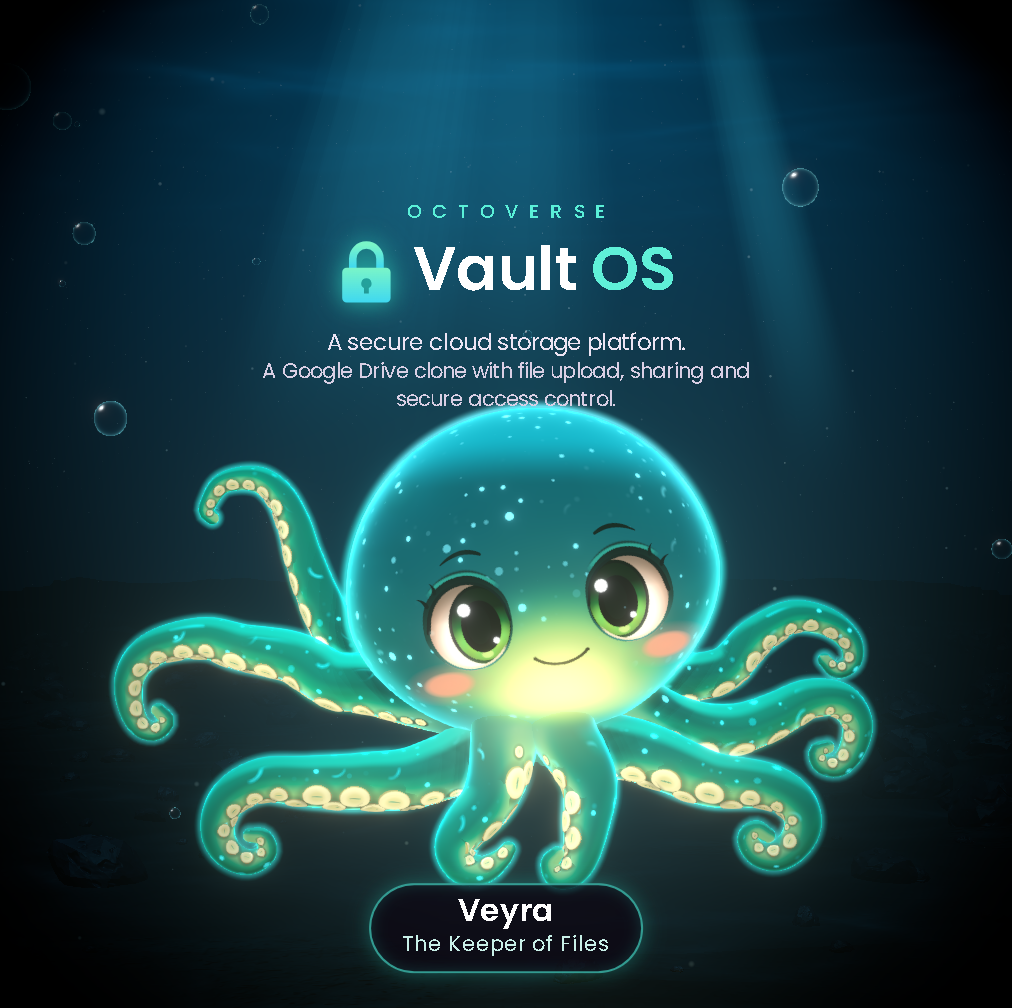
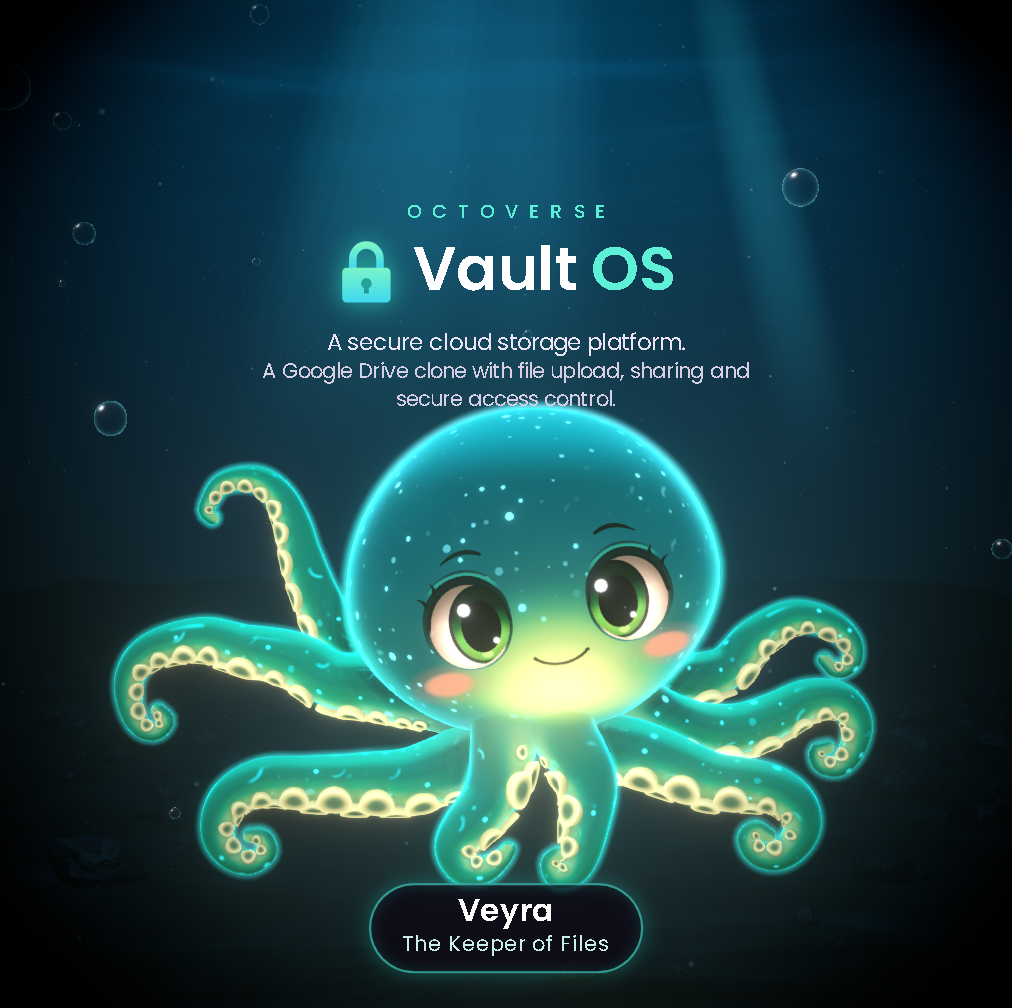
fix(engine): jelly core follows the head frame; crown band stays soft
The jelly's warm core was the face glow position plus an offset in world
axes, so a turned or scaled head moved it off the head (at yaw 180 the
"behind the face" core sat in front of it). Each jelly surface now has a
uJellyCorePos written every frame as (glow.center + coreCenter) through the
head's world matrix (jellyCoreWorld, preallocated, tested with a turned,
scaled, moved head). The crown fades in over a fixed soft width above
crownHeight, now held at 0.9 at most. The face glow's spread and reach are
clamped above zero and validateBundle names one that is not. The no-colour
check covers the sparkle code too. Material creation order is unchanged, so
Nox's draw order and stills stay bit-identical.

diff --git a/src/engine/character/skinMaterial.test.ts b/src/engine/character/skinMaterial.test.ts
@@ -5,7 +5,7 @@ import * as THREE from 'three';
 import { expect, test } from 'vitest';
 import { NOX } from '../../worlds/nox/character';
 import type { CharacterConfig, JellySettings, SurfaceLook } from '../config/types';
-import { createSkinMaterial, createSkinUniforms, faceWeight, surfaceLooks } from './skinMaterial';
+import { createSkinMaterial, createSkinUniforms, faceWeight, jellyCoreLocal, jellyCoreWorld, surfaceLooks } from './skinMaterial';
 import { ACCENT_GLSL, createAccentUniforms } from './worldAccent';
 
 // Nox's skin program before the jelly mode existed (taken from the sources at fcfedba, before the
@@ -22,7 +22,15 @@ const withSurfaces = (mantle: SurfaceLook, arms: SurfaceLook): CharacterConfig =
 const materials = (config: CharacterConfig) => {
   const u = createSkinUniforms(config);
   const looks = surfaceLooks(config.skin);
-  return { head: createSkinMaterial('HEAD', u, config.palette.rimHot, undefined, looks.mantle), arm: createSkinMaterial('ARM', u, config.palette.rimHot, undefined, looks.arms) };
+  return {
+    head: createSkinMaterial('HEAD', u, config.palette.rimHot, undefined, looks.mantle, config.glow.center),
+    arm: createSkinMaterial('ARM', u, config.palette.rimHot, undefined, looks.arms, config.glow.center),
+  };
+};
+/** The `#ifdef name` block of a shader source, up to its `#endif`. */
+const branchOf = (source: string, name: string) => {
+  const start = source.indexOf(`#ifdef ${name}`);
+  return source.slice(start, source.indexOf('#endif', start));
 };
 
 test("Nox's skin program is the text it was before the jelly mode: mantle and arms, absent surfaces or plain skin", () => {
@@ -50,14 +58,51 @@ test('a jelly surface compiles the JELLY branch, its colours and shape read from
   expect(u.uJellyDepth.value).toEqual(new THREE.Color(JELLY.depth));
   expect(u.uJellyCore.value).toEqual(new THREE.Color(JELLY.core));
   expect(u.uJellyShape.value.toArray()).toEqual([JELLY.rimPower, JELLY.crownHeight, JELLY.depthStrength, JELLY.coreWarmth]);
-  expect(u.uJellyCoreCenter.value.toArray()).toEqual([...JELLY.coreCenter]);
-  // The jelly takes no colour of its own: the only vec3 constants it holds are the luminance weights.
-  const source = head.fragmentShader;
-  const start = source.indexOf('#ifdef JELLY');
-  const branch = source.slice(start, source.indexOf('#endif', start));
-  expect(branch).toContain('vec3 jellyLook(');
-  expect(branch.match(/vec3\([^)]*\)/g) ?? []).toEqual([]);
-  expect(branch).not.toMatch(/#[0-9a-fA-F]{6}/);
+  // The core starts at its head-space point, the face glow's centre plus the surface's offset.
+  const [gx, gy, gz] = NOX.glow.center;
+  const [cx, cy, cz] = JELLY.coreCenter;
+  expect(u.uJellyCorePos.value.toArray()).toEqual([gx + cx, gy + cy, gz + cz]);
+});
+
+test('neither the jelly nor the sparkle code holds a colour of its own: no vec3 constant, no hex', () => {
+  const source = materials(withSurfaces(jelly(80), jelly(40))).head.fragmentShader;
+  const branches = { JELLY: branchOf(source, 'JELLY'), SPARKLE: branchOf(source, 'SPARKLE') };
+  expect(branches.JELLY).toContain('vec3 jellyLook(');
+  expect(branches.SPARKLE).toContain('float sparkles(');
+  for (const [name, branch] of Object.entries(branches)) {
+    expect(branch.match(/vec[34]\([^)]*\)/g) ?? [], name).toEqual([]);
+    expect(branch, name).not.toMatch(/#[0-9a-fA-F]{6}/);
+  }
+  // The sparkles' colour is the palette's wet colour, a uniform.
+  expect(source).toContain('col += uWetColor * sparkles(p, footprint, up)');
+});
+
+test('the warm core follows the head frame: its world place is the head-space point through the head matrix, rotated and scaled', () => {
+  const local = jellyCoreLocal([0.3, -0.88, 0.6], [0, 0.12, -0.35]);
+  expect(local.toArray().map(v => +v.toFixed(6))).toEqual([0.3, -0.76, 0.25]);
+  // A head turned half round (as at yaw 180), scaled 1.5 and moved.
+  const head = new THREE.Matrix4().compose(new THREE.Vector3(1, 2, -3), new THREE.Quaternion().setFromAxisAngle(new THREE.Vector3(0, 1, 0), Math.PI), new THREE.Vector3(1.5, 1.5, 1.5));
+  const out = new THREE.Vector3();
+  const same = jellyCoreWorld(out, local, head);
+  expect(same).toBe(out);
+  const expected = [1 - 0.3 * 1.5, 2 - 0.76 * 1.5, -3 - 0.25 * 1.5];
+  out.toArray().forEach((v, i) => expect(v).toBeCloseTo(expected[i], 6));
+  // Behind the face stays behind the face: turned half round, the face looks down -z, and the core
+  // (0.35 behind it in head space) lies on the head's inner side of it, toward +z, not in front of it.
+  const glow = new THREE.Vector3(0.3, -0.88, 0.6).applyMatrix4(head);
+  expect(out.z).toBeGreaterThan(glow.z);
+  // A small head turn moves the core with the head, not by a fixed world offset.
+  const turned = new THREE.Matrix4().makeRotationY(THREE.MathUtils.degToRad(20));
+  jellyCoreWorld(out, local, turned);
+  expect(out.distanceTo(local.clone().applyMatrix4(turned))).toBe(0);
+  expect(local.toArray().map(v => +v.toFixed(6))).toEqual([0.3, -0.76, 0.25]);
+});
+
+test("Octopus writes each jelly core through the head's world matrix every frame, into the preallocated uniform", () => {
+  const source = readFileSync(resolve(__dirname, 'Octopus.tsx'), 'utf8');
+  expect(source).toContain('jellyCoreWorld(rig.jellyCores[k].pos, rig.jellyCores[k].local, headSpace.current!.matrixWorld)');
+  // After the head's world matrix is brought up to date, beside the face glow.
+  expect(source.indexOf('jellyCoreWorld(rig.jellyCores')).toBeGreaterThan(source.indexOf('headSpace.current!.updateWorldMatrix(true, false);'));
 });
 
 test('the jelly allocates no render target: one pass, no transmission, only the textures the skin already reads', () => {
@@ -86,7 +131,9 @@ test('changing the jelly core colour or its centre changes only uniform values, 
   expect(b.vertexShader).toBe(a.vertexShader);
   expect(b.defines).toEqual(a.defines);
   expect(b.uniforms.uJellyCore.value).not.toEqual(a.uniforms.uJellyCore.value);
-  expect(b.uniforms.uJellyCoreCenter.value.toArray()).toEqual([0.2, -0.1, 0.4]);
+  const [gx, gy, gz] = NOX.glow.center;
+  b.uniforms.uJellyCorePos.value.toArray().forEach((v: number, i: number) => expect(v).toBeCloseTo([gx + 0.2, gy - 0.1, gz + 0.4][i], 9));
+  expect(b.uniforms.uJellyCorePos.value).not.toEqual(a.uniforms.uJellyCorePos.value);
 });
 
 test('sparkles: a define only where a surface has them, at the configured density, under one shared shimmer wave', () => {

diff --git a/src/engine/character/skinMaterial.ts b/src/engine/character/skinMaterial.ts
@@ -162,6 +162,8 @@ const skinVertex = /* glsl */ `
 export const SPARKLE_RADIUS = 0.012;
 /** Each speck fades in and out over this many seconds, its own pace and phase. */
 const TWINKLE_SECONDS = [2, 6] as const;
+/** The jelly crown's soft lower edge: the normal's up component over which the cap fades in above `crownHeight`. */
+const CROWN_SOFTNESS = 0.4;
 
 /**
  * The jelly glass and the sparkles (spec 7.2), spliced into the skin's fragment shader only for a
@@ -178,8 +180,8 @@ const LOOK_GLSL = /* glsl */ `
     uniform vec3 uJellyCore;
     // rimPower, crownHeight (the normal's up component), depthStrength, coreWarmth.
     uniform vec4 uJellyShape;
-    // The warm core's centre, from the face glow's.
-    uniform vec3 uJellyCoreCenter;
+    // The warm core's centre in world space, written each frame through the head's frame (jellyCoreWorld).
+    uniform vec3 uJellyCorePos;
 
     // Jelly glass in one pass, over the skin's own shading: the face glow and its spill stay as the
     // skin drew them, the rest takes the jelly's thick middle, its lighter crown, the warm core seen
@@ -188,11 +190,12 @@ const LOOK_GLSL = /* glsl */ `
       float clear = 1.0 - smoothstep(0.2, 0.65, faceGlow);
       // Depth: the surface facing the viewer looks through the most jelly, darker and denser.
       col = mix(col, uJellyDepth, ndv * uJellyShape.z * clear);
-      // Crown: a soft lighter cap toward the top.
-      float cap = smoothstep(uJellyShape.y, min(uJellyShape.y + 0.3, 1.0), N.y);
+      // Crown: a soft lighter cap toward the top, always the same soft width (a high crownHeight
+      // gives a smaller, fainter cap, never a hard edge).
+      float cap = smoothstep(uJellyShape.y, uJellyShape.y + ${glsl(CROWN_SOFTNESS)}, N.y);
       col = mix(col, uJellyCrown, cap * clear);
       // Warm core: brightest where the view through the jelly passes nearest it.
-      vec3 toCore = uGlowPos + uJellyCoreCenter - cameraPosition;
+      vec3 toCore = uJellyCorePos - cameraPosition;
       vec3 ray = -V;
       vec3 miss = toCore - ray * max(dot(toCore, ray), 0.0);
       float core = exp(-dot(miss, miss) / (uGlowShape.x * uGlowShape.x)) * uGlowStrength * uJellyShape.w;
@@ -631,15 +634,38 @@ export function surfaceLooks(skin: SkinDetail): { mantle: SurfaceLook; arms: Sur
   return skin.surfaces ?? { mantle: PLAIN_SKIN, arms: PLAIN_SKIN };
 }
 
-/** One surface's jelly settings as uniforms: every colour and the core's place are values, never shader text. */
-function jellyUniforms(jelly: JellySettings) {
+type Triple = readonly [number, number, number];
+
+/**
+ * Where a jelly surface's warm core sits in the head's own space (the frame `glow.center` is given
+ * in): the face glow's centre plus the surface's `coreCenter`.
+ */
+export function jellyCoreLocal(glowCenter: Triple, coreCenter: Triple): THREE.Vector3 {
+  return new THREE.Vector3(glowCenter[0] + coreCenter[0], glowCenter[1] + coreCenter[1], glowCenter[2] + coreCenter[2]);
+}
+
+/**
+ * The warm core in world space, written into `out` (the surface's `uJellyCorePos`, preallocated):
+ * the head-space point `local` carried through the head's world matrix, so the core turns, tilts and
+ * scales with the head, as the face glow does. Allocates nothing; Octopus calls it each frame.
+ */
+export function jellyCoreWorld(out: THREE.Vector3, local: THREE.Vector3, headMatrixWorld: THREE.Matrix4): THREE.Vector3 {
+  return out.copy(local).applyMatrix4(headMatrixWorld);
+}
+
+/**
+ * One surface's jelly settings as uniforms: every colour and the core's place are values, never
+ * shader text. The core starts at its head-space point (`glowCenter` + `coreCenter`), which is its
+ * world place for a head at the origin, until the first frame carries it through the head's frame.
+ */
+function jellyUniforms(jelly: JellySettings, glowCenter: Triple) {
   return {
     uJellyRim: { value: new THREE.Color(jelly.rim) },
     uJellyCrown: { value: new THREE.Color(jelly.crown) },
     uJellyDepth: { value: new THREE.Color(jelly.depth) },
     uJellyCore: { value: new THREE.Color(jelly.core) },
     uJellyShape: { value: new THREE.Vector4(jelly.rimPower, jelly.crownHeight, jelly.depthStrength, jelly.coreWarmth) },
-    uJellyCoreCenter: { value: new THREE.Vector3(...jelly.coreCenter) },
+    uJellyCorePos: { value: jellyCoreLocal(glowCenter, jelly.coreCenter) },
   };
 }
 
@@ -648,8 +674,9 @@ function jellyUniforms(jelly: JellySettings) {
  * `rimHot` (the character's `palette.rimHot`), drawn in its surface's `look` (the mantle's for the
  * head, the arms' for the arms and webs): a jelly or sparkling surface compiles that code behind its
  * define, with its own uniforms; plain skin compiles exactly the skin program it always did.
+ * `glowCenter` is the character's `glow.center` (head space), where a jelly core is placed from.
  */
-export function createSkinMaterial(kind: SkinKind, uniforms: SkinUniforms, rimHot: string, face?: { texture: THREE.Texture; rect: THREE.Vector4 }, look: SurfaceLook = PLAIN_SKIN) {
+export function createSkinMaterial(kind: SkinKind, uniforms: SkinUniforms, rimHot: string, face?: { texture: THREE.Texture; rect: THREE.Vector4 }, look: SurfaceLook = PLAIN_SKIN, glowCenter: Triple = [0, 0, 0]) {
   const jelly = look.mode === 'jelly';
   const sparkle = look.sparkle > 0;
   if (jelly && !look.jelly) throw new Error('A jelly skin surface needs its jelly settings (clampCharacterConfig fills them in)');
@@ -659,7 +686,7 @@ export function createSkinMaterial(kind: SkinKind, uniforms: SkinUniforms, rimHo
       ...uniforms,
       uFace: { value: face?.texture ?? null },
       uFaceRect: { value: face?.rect ?? new THREE.Vector4(0, 0, 1, 1) },
-      ...(jelly ? jellyUniforms(look.jelly!) : {}),
+      ...(jelly ? jellyUniforms(look.jelly!, glowCenter) : {}),
       ...(sparkle ? { uSparkle: { value: look.sparkle } } : {}),
     },
     vertexShader: skinVertex,

diff --git a/src/engine/character/Octopus.tsx b/src/engine/character/Octopus.tsx
@@ -38,7 +38,7 @@ import { createHaloMaterial } from './haloMaterial';
 import { createDomeGeometry, createHeadGeometry } from './headGeometry';
 import { createHeadSilhouetteMaterial } from './headMorph';
 import { HEAD_EFFECTS } from './headEffects';
-import { createSkinMaterial, createSkinUniforms, surfaceLooks } from './skinMaterial';
+import { createSkinMaterial, createSkinUniforms, jellyCoreWorld, surfaceLooks } from './skinMaterial';
 import { createDomeMaterial } from './domeMaterial';
 import { LocalGrade } from './LocalGrade';
 import { createCupArmAttribute, createCupShadowMaterial, createSuckerMaterial } from './suckerMaterial';
@@ -224,7 +224,8 @@ export function Octopus({ config, swimPoses, introPose, artifacts, blender, stag
     });
     // The mantle and the arms each take their own surface's look; the webs are arm surface.
     const looks = surfaceLooks(config.skin);
-    const webMaterial = createSkinMaterial('ARM', uniforms, config.palette.rimHot, undefined, looks.arms);
+    const glowCenter = config.glow.center;
+    const webMaterial = createSkinMaterial('ARM', uniforms, config.palette.rimHot, undefined, looks.arms, glowCenter);
     webMaterial.side = THREE.DoubleSide;
     // The cups and their contact shadows share one set of placements and bends.
     const suckerTotal = arms.reduce((n, a) => n + a.row.count, 0);
@@ -242,7 +243,8 @@ export function Octopus({ config, swimPoses, introPose, artifacts, blender, stag
     const cupShadows = new THREE.InstancedMesh(shadowGeometry, createCupShadowMaterial(config.palette, config.suckers, uniforms), suckerTotal);
     cupShadows.instanceMatrix = suckers.instanceMatrix;
     cupShadows.frustumCulled = false;
-    return {
+    // The materials are made in the order they always were (the renderer sorts opaques by material id, so a new order would redraw Nox differently).
+    const built = {
       uniforms,
       face,
       arms,
@@ -257,8 +259,8 @@ export function Octopus({ config, swimPoses, introPose, artifacts, blender, stag
       suckers,
       cupShadows,
       suckerBend,
-      headMaterial: createSkinMaterial('HEAD', uniforms, config.palette.rimHot, { texture: face.texture, rect: FACE_RECT }, looks.mantle),
-      armMaterial: createSkinMaterial('ARM', uniforms, config.palette.rimHot, undefined, looks.arms),
+      headMaterial: createSkinMaterial('HEAD', uniforms, config.palette.rimHot, { texture: face.texture, rect: FACE_RECT }, looks.mantle, glowCenter),
+      armMaterial: createSkinMaterial('ARM', uniforms, config.palette.rimHot, undefined, looks.arms, glowCenter),
       coreGlow: createGlowMaterial(config.glow.core, CORE_GLOW, 2.4),
       armHalo: createHaloMaterial(config.glow.halo, 'ARM'),
       headHalo: createHaloMaterial(config.glow.halo, 'HEAD', new THREE.Vector3(config.head.centerX - config.head.faceOrigin[0], config.head.waist - config.head.faceOrigin[1], 0), uniforms.uMorph),
@@ -269,6 +271,14 @@ export function Octopus({ config, swimPoses, introPose, artifacts, blender, stag
       // What this rig's materials last showed of the entrance's haze and veil (written only on a change).
       shown: { hazeZ: 0, veil: 0 },
     };
+    // Each jelly surface's warm core: its head-space point, and the world-space uniform it is carried into each frame (none for Nox).
+    const jellyCores = [built.headMaterial, built.armMaterial, webMaterial]
+      .filter(material => 'uJellyCorePos' in material.uniforms)
+      .map(material => {
+        const pos = material.uniforms.uJellyCorePos.value as THREE.Vector3;
+        return { pos, local: pos.clone() };
+      });
+    return { ...built, jellyCores };
     // Built once per character and quality tier; stage poses reach the arms as new rests each frame.
   }, [config, blender, quality, accents]);
 
@@ -761,6 +771,8 @@ export function Octopus({ config, swimPoses, introPose, artifacts, blender, stag
     headSpace.current!.updateWorldMatrix(true, false);
     m.glow.copy(rig.glowLocal).applyMatrix4(headSpace.current!.matrixWorld);
     rig.uniforms.uGlowPos.value.copy(m.glow);
+    // A jelly surface's warm core rides the same head frame as the face glow: turned, tilted and scaled with it.
+    for (let k = 0; k < rig.jellyCores.length; k++) jellyCoreWorld(rig.jellyCores[k].pos, rig.jellyCores[k].local, headSpace.current!.matrixWorld);
     accents?.at.copy(m.glow);
     if (world && glowLight) {
       // Placed in world space, where the particles read it, then into the float group's (its matrix was just brought up to date).

diff --git a/src/engine/config/validate.test.ts b/src/engine/config/validate.test.ts
@@ -3,7 +3,7 @@ import { NOX_BUNDLE } from '../../worlds/nox/bundle';
 import { NOX } from '../../worlds/nox/character';
 import { BundleError, validateBundle } from '../types/bundle';
 import type { JellySettings, SuckerStyle } from './types';
-import { clampCharacterConfig } from './validate';
+import { GLOW_SPREAD_MIN, clampCharacterConfig } from './validate';
 
 test('NOX is unchanged by clamping', () => {
   expect(clampCharacterConfig(NOX)).toEqual(NOX);
@@ -116,6 +116,9 @@ const clampedNumbers = (bad: unknown) => ({
     ...NOX.glow,
     light: poison(NOX.glow.light, bad),
     underside: bad as number,
+    spreadX: bad as number,
+    reachUp: bad as number,
+    reachDown: bad as number,
     aura: poison(NOX.glow.aura, bad),
     grade: poison(NOX.glow.grade, bad),
   },
@@ -221,6 +224,38 @@ test('jelly settings are clamped, and a missing or unreadable colour reads the c
   expect([fallback.rim, fallback.crown, fallback.depth, fallback.core]).toEqual([NOX.palette.rimTop, NOX.palette.headEdge, NOX.palette.blotch, NOX.glow.core]);
   // A skin surface carries no jelly.
   expect(surfaces({ mode: 'skin', jelly: JELLY, sparkle: 0 }, { mode: 'skin', sparkle: 0 }).mantle).toEqual({ mode: 'skin', sparkle: 0 });
+});
+
+test('the jelly crown starts at 0.9 at the most, so its soft edge always fits below the top', () => {
+  const crown = (crownHeight: number) => surfaces({ mode: 'jelly', jelly: { ...JELLY, crownHeight }, sparkle: 0 }, { mode: 'skin', sparkle: 0 }).mantle.jelly!.crownHeight;
+  expect(crown(1)).toBe(0.9);
+  expect(crown(0.95)).toBe(0.9);
+  expect(crown(0.6)).toBe(0.6);
+});
+
+test('the face glow spread and reach stay above zero (the shaders divide by them); Nox keeps his', () => {
+  const g = clampCharacterConfig({ ...NOX, glow: { ...NOX.glow, spreadX: 0, reachUp: -1, reachDown: 99 } }).glow;
+  expect([g.spreadX, g.reachUp, g.reachDown]).toEqual([GLOW_SPREAD_MIN, GLOW_SPREAD_MIN, 4]);
+  expect(GLOW_SPREAD_MIN).toBeGreaterThan(0);
+  const nox = clampCharacterConfig(NOX).glow;
+  expect([nox.spreadX, nox.reachUp, nox.reachDown]).toEqual([NOX.glow.spreadX, NOX.glow.reachUp, NOX.glow.reachDown]);
+});
+
+test('validateBundle names a face glow spread or reach that is not above zero', () => {
+  const withGlow = (change: Record<string, number>) => ({ ...NOX_BUNDLE, character: { ...NOX_BUNDLE.character, glow: { ...NOX_BUNDLE.character.glow, ...change } } });
+  const field = (bundle: typeof NOX_BUNDLE) => {
+    try {
+      validateBundle(bundle);
+    } catch (error) {
+      if (error instanceof BundleError) return error.field;
+      throw error;
+    }
+    return null;
+  };
+  expect(field(withGlow({ spreadX: 0 }))).toBe('character.glow.spreadX');
+  expect(field(withGlow({ reachUp: -0.2 }))).toBe('character.glow.reachUp');
+  expect(field(withGlow({ reachDown: 0 }))).toBe('character.glow.reachDown');
+  expect(field(withGlow({ spreadX: 0.3 }))).toBeNull();
 });
 
 test('validateBundle names a surface mode the engine has not got, and a jelly colour that does not parse', () => {

diff --git a/src/engine/config/validate.ts b/src/engine/config/validate.ts
@@ -46,6 +46,8 @@ const LEGACY = {
  */
 const DEFAULTS = {
   underside: 1.6,
+  // The face glow's spread and reach: the shaders divide by them, so they stay above zero.
+  glowSpread: { spreadX: 0.58, reachUp: 0.45, reachDown: 0.2 },
   auraRadius: 3.6,
   auraStrength: 1,
   gradeRadius: 4,
@@ -81,6 +83,9 @@ function clampLighting(l: StageLighting, d: StageLighting = INTRO_LIGHTING): Sta
   };
 }
 
+/** The least the face glow's spread and reach may be: the skin and jelly shaders divide by their squares. */
+export const GLOW_SPREAD_MIN = 0.02;
+
 /** Sparkle specks per square unit of surface: none to a dense frost. */
 const SPARKLE_MAX = 400;
 
@@ -103,7 +108,8 @@ function clampSurface(look: Partial<SurfaceLook> | undefined, palette: Palette, 
     rim: colour(j.rim, palette.rimTop),
     rimPower: clamp(j.rimPower as number, 0.5, 8, JELLY_DEFAULTS.rimPower),
     crown: colour(j.crown, palette.headEdge),
-    crownHeight: unit(j.crownHeight as number, JELLY_DEFAULTS.crownHeight),
+    // Below 0.9, so the cap always has room to fade in over its soft edge before the top.
+    crownHeight: clamp(j.crownHeight as number, 0, 0.9, JELLY_DEFAULTS.crownHeight),
     depth: colour(j.depth, palette.blotch),
     depthStrength: unit(j.depthStrength as number, JELLY_DEFAULTS.depthStrength),
     core: colour(j.core, core),
@@ -191,6 +197,9 @@ export function clampCharacterConfig(config: LegacyCharacterConfig): CharacterCo
         decay: clamp(light.decay, 0.5, 4, LEGACY.light.decay),
       },
       underside: clamp(config.glow.underside, 0, 2, DEFAULTS.underside),
+      spreadX: clamp(config.glow.spreadX, GLOW_SPREAD_MIN, 4, DEFAULTS.glowSpread.spreadX),
+      reachUp: clamp(config.glow.reachUp, GLOW_SPREAD_MIN, 4, DEFAULTS.glowSpread.reachUp),
+      reachDown: clamp(config.glow.reachDown, GLOW_SPREAD_MIN, 4, DEFAULTS.glowSpread.reachDown),
       aura: { ...aura, belowStart: clamp(aura.belowStart ?? LEGACY.belowStart, 0.05, 4, LEGACY.belowStart), radius: clamp(aura.radius, 0.2, 4, DEFAULTS.auraRadius), strength: unit(aura.strength, DEFAULTS.auraStrength) },
       grade: { ...grade, radius: clamp(grade.radius, 0.5, 8, DEFAULTS.gradeRadius), strength: unit(grade.strength, DEFAULTS.gradeStrength) },
     },

diff --git a/src/engine/types/bundle.ts b/src/engine/types/bundle.ts
@@ -212,6 +212,11 @@ export function validateBundle(bundle: WorldBundle, worlds: readonly WorldId[] =
     if (surfaces && !(SKIN_MODES as readonly unknown[]).includes(mode)) throw new BundleError(`character.skin.surfaces.${surface}.mode`, `"${String(mode)}" is not a skin mode the engine has (${SKIN_MODES.join(', ')})`);
   }
   checkLeaves(rest.character, 'character', true);
+  // The face glow's spread and reach divide in the skin and jelly shaders: each must be above zero.
+  for (const key of ['spreadX', 'reachUp', 'reachDown'] as const) {
+    const value: unknown = bundle.character.glow?.[key];
+    if (!(finite(value) && value > 0)) throw new BundleError(`character.glow.${key}`, `${String(value)} is not above 0 (the face glow divides by it)`);
+  }
   checkLeaves(rest.place, 'place', true);
   checkLeaves(rest.poses, 'poses', false);
   checkLeaves(rest.artifacts, 'artifacts', false);

diff --git a/src/engine/config/types.ts b/src/engine/config/types.ts
@@ -433,7 +433,7 @@ export interface JellySettings {
   /** The thick middle's colour, and how far the surface facing the viewer takes it (0 to 1). */
   depth: string;
   depthStrength: number;
-  /** The warm core inside: its colour, its centre relative to the face glow's (`glow.center`), and its strength (0 to 2). */
+  /** The warm core inside: its colour, its centre relative to the face glow's (`glow.center`) in the head's own space (it turns, tilts and scales with the head), and its strength (0 to 2). */
   core: string;
   coreCenter: readonly [number, number, number];
   coreWarmth: number;

diff --git a/docs/superpowers/reviews/veyra.md b/docs/superpowers/reviews/veyra.md
@@ -135,6 +135,14 @@ What is not there yet, honestly:
 - **Inner depth:** the "thick" middle is a darker colour, not real parallax: there is nothing seen through the jelly.
 - Twinkle and the shimmer wave are motion: not judged in stills (owner checks live).
 
+### Task 3 fix round 1 (review: the core rides the head frame; the crown edge stays soft)
+
+- The warm core was placed in world axes (face glow position plus an unrotated, unscaled offset): turned round, the "behind the face" core landed in front of the far-side face, and idle head turns slid it. Now each jelly surface's `uJellyCorePos` is written each frame as (`glow.center` + `coreCenter`) through the head's world matrix (`jellyCoreWorld`, one preallocated vector per surface, no per-frame allocation), the same frame the face glow rides. Tested with a turned, scaled and moved head.
+- The crown fades in over a fixed soft width (0.4 of the normal's up component) above `crownHeight`, which is now held at 0.9 at most, so the cap never gets a hard edge (the old `min(h + 0.3, 1)` narrowed it toward the top and was undefined at 1).
+- The face glow's spread and reach are held above zero (the shaders divide by them); `validateBundle` names one that is not.
+- The no-colour check covers the sparkle code as well as the jelly code.
+- Stills retaken (same paths: `t3-intro.png`, `t3-head-closeup-vs-p2.png`, `t3-back.png`). Front samples barely move (middle (25, 107, 114), crown (38, 191, 208)); the crown's lower band is softer (at 450 px: 150 green, was 165). The back view shows the cause of the grey cast: the same dome from behind reads (10, 105, 113) in the middle, red about 10, against 25 on the front: the extra red on the front comes from the face glow's light (bloom), not from the jelly. Task 7.
+
 ## Task 4: cup frill style (engine variant)
 
 Engine: `SuckerSettings.style?: SuckerStyle { rimWidth, scallop, edge, rim, hollow, glow }` (`config/types.ts`). With a style, `createSuckerCup(detail, style)` lathes a raised frill cup: a round hollow, a rim `rimWidth` wide whose crest stands `scallop` cup radii above the skin, and a wall that falls from the rim's lip to below the skin (no gap under the cup). The placements and bends are untouched: the frill sits on the same skin as Nox's discs. `createSuckerMaterial(palette, light, style)` swaps the frill's colour into a copy of Nox's program at fixed anchors (an anchor that is not found once throws): the colours and glow are uniforms from the config (`uFrillEdge`, `uFrillRim`, `uFrillHollow`, `uFrill`), the frill glows at `glow` in place of Nox's boost, and edge-on cups are no longer flattened toward their face (the frill is meant to break the arm's outline). Absent `style` is Nox's: sha256 of his cup geometry at all three tiers' detail (32, 24, 16), the shadow ring, every arm's layout, placements and bends, and both cup programs' text were taken at aaf1158 before the edit and are pinned in `suckerRow.test.ts` and `suckerMaterial.test.ts`. Two styles differing only in colours give the same geometry and the same program text (tested). The clamp holds rimWidth to [0.05, 0.5], scallop to [0, 1], glow to [0, 3]; a missing or unreadable colour reads the character's own `suckerEdge`, `suckerHot`, `suckerHollow`; `validateBundle` names an unreadable one (`character.suckers.style.hollow`). The tier detail (`suckerScale`) still sets the cup's segments.
